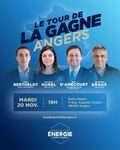
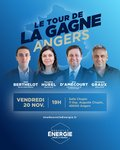
Tour de la Gagne Angers 20 nov: lien d'inscription 1ne.fr/492611, nouvelle affiche

diff --git a/index.html b/index.html
@@ -243,8 +243,8 @@
         <p class="date">Vendredi 20 Novembre 2026 - 19h</p>
         <p class="lieu">Le Tour de la Gagne - Angers - Avec Yves d'Amécourt - Salle Chupin</p>
       </div>
-      <span class="cta disabled" aria-disabled="true">S'inscrire</span>
-      <a class="poster" href="assets/posters/reunion-2026-11-20.jpg" target="_blank" rel="noopener" title="Voir l'affiche en grand"><img src="assets/posters/reunion-2026-11-20-thumb.jpg" alt="Affiche - Le Tour de la Gagne, Angers, 20 novembre" width="120" height="150" loading="lazy"></a>
+      <a class="cta" href="https://1ne.fr/492611" target="_blank" rel="noopener">S'inscrire</a>
+      <a class="poster" href="assets/posters/reunion-2026-11-20.jpg?v=2" target="_blank" rel="noopener" title="Voir l'affiche en grand"><img src="assets/posters/reunion-2026-11-20-thumb.jpg?v=2" alt="Affiche - Le Tour de la Gagne, Angers, 20 novembre" width="120" height="150" loading="lazy"></a>
       <div class="links">
         <a href="https://www.google.com/maps/search/?api=1&amp;query=Salle+Chupin+11+Esplanade+Auguste+Chupin+49000+Angers" target="_blank" rel="noopener"><svg class="ic" viewBox="0 0 24 24" aria-hidden="true"><path fill="currentColor" d="M12 2C8.13 2 5 5.13 5 9c0 5.25 7 13 7 13s7-7.75 7-13c0-3.87-3.13-7-7-7zm0 9.5a2.5 2.5 0 0 1 0-5 2.5 2.5 0 0 1 0 5z"/></svg>Google Maps</a>
         <a href="assets/ics/2026-11-20-tour-de-la-gagne-angers.ics" download><svg class="ic" viewBox="0 0 24 24" aria-hidden="true"><path fill="currentColor" d="M17 12h-5v5h5v-5zM16 1v2H8V1H6v2H5c-1.11 0-1.99.9-1.99 2L3 19c0 1.1.89 2 2 2h14c1.1 0 2-.9 2-2V5c0-1.1-.9-2-2-2h-1V1h-2zm3 18H5V8h14v11z"/></svg>Ajouter au calendrier</a>
